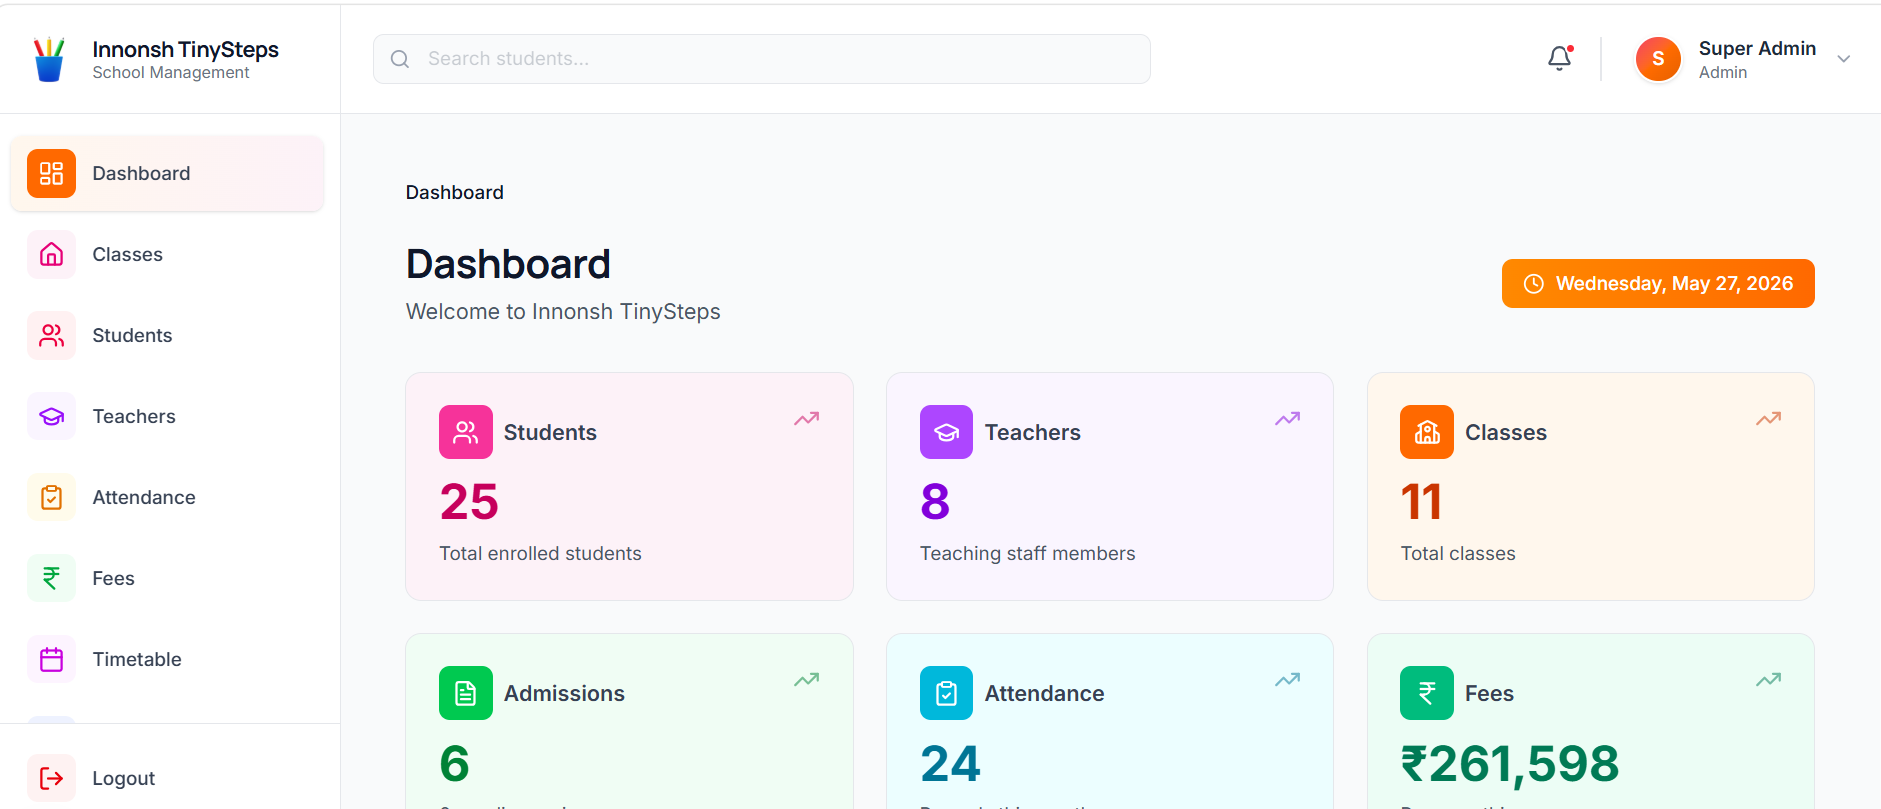
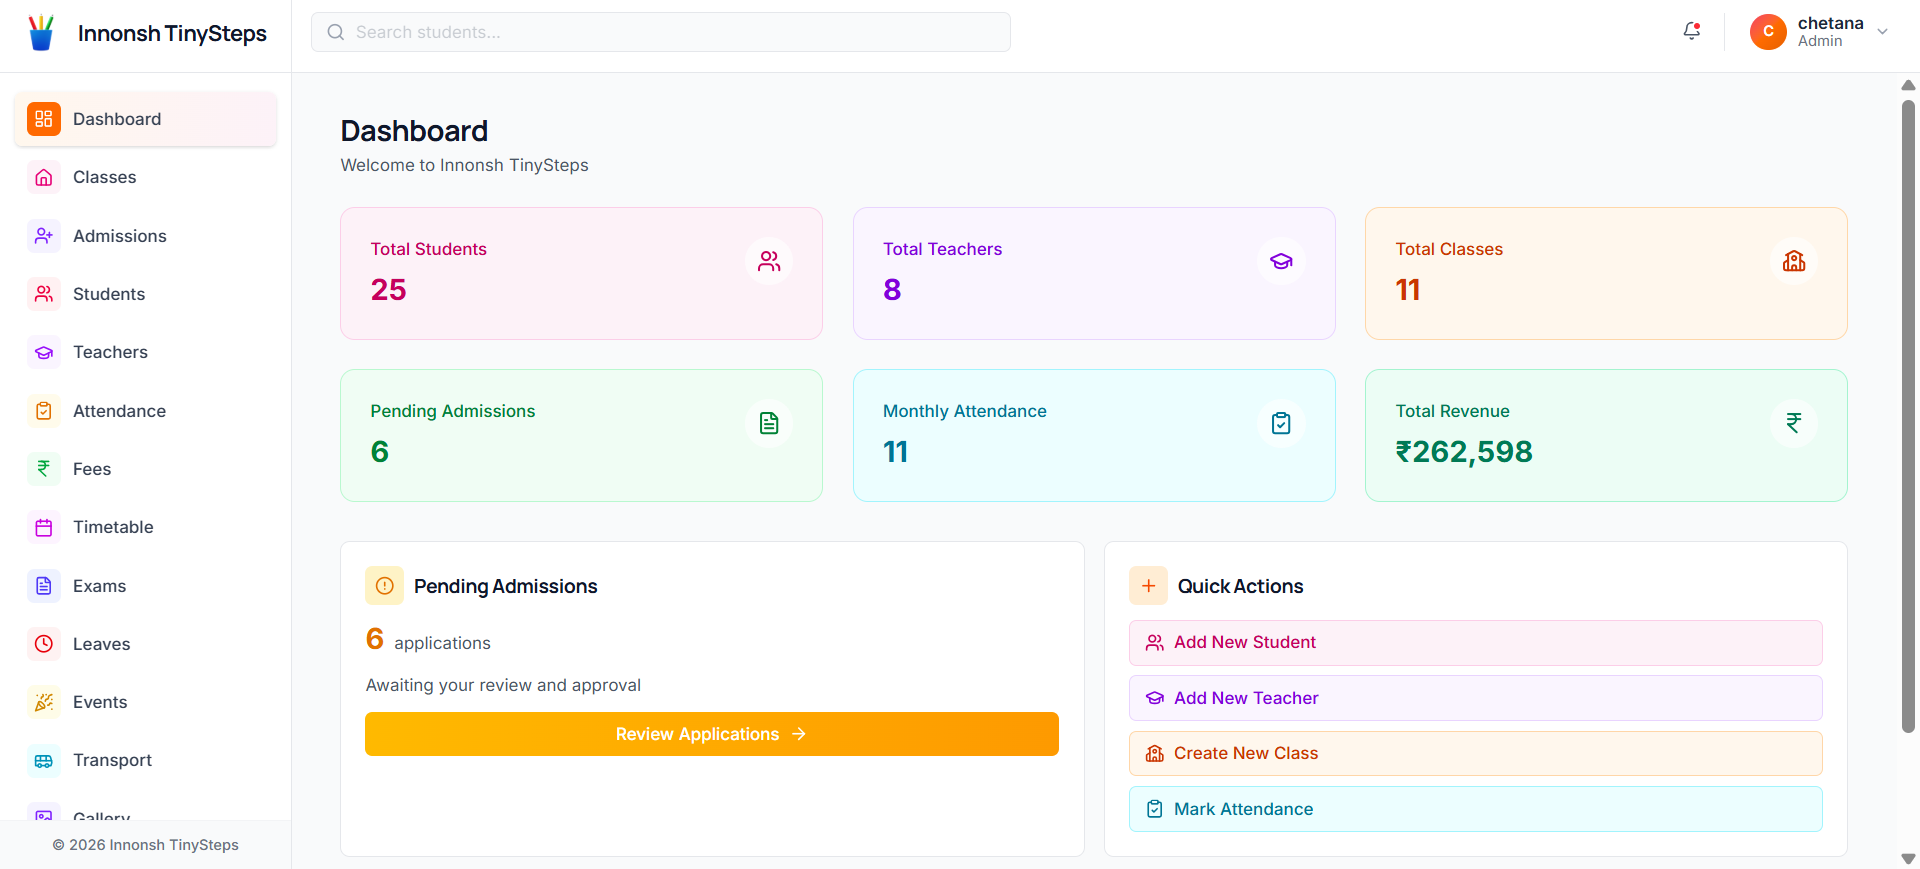
replace dashboard image

diff --git a/app/globals.css b/app/globals.css
@@ -31,26 +31,42 @@ body {
   line-height: 1.6;
   -webkit-font-smoothing: antialiased;
   -moz-osx-font-smoothing: grayscale;
-  color: #334155; /* slate-700 */
+  color: #334155;
+  /* slate-700 */
 }
 
-h1, h2, h3, h4, h5, h6, 
-.card-title, .section-header, .page-title {
+h1,
+h2,
+h3,
+h4,
+h5,
+h6,
+.card-title,
+.section-header,
+.page-title {
   font-family: var(--font-heading-var), sans-serif;
   letter-spacing: -0.02em;
   line-height: 1.25;
   font-weight: 700;
-  color: #0f172a; /* slate-900 */
+  color: #0f172a;
+  /* slate-900 */
 }
 
 /* UI Elements & Controls */
-input, select, textarea, button, label, table, .sidebar-link {
+input,
+select,
+textarea,
+button,
+label,
+table,
+.sidebar-link {
   font-family: var(--font-body-var), sans-serif;
 }
 
 label {
   font-weight: 500;
-  color: #475569; /* slate-600 */
+  color: #475569;
+  /* slate-600 */
 }
 
 input::placeholder {
@@ -58,10 +74,6 @@ input::placeholder {
   opacity: 0.5;
 }
 
-.custom-scrollbar::-webkit-scrollbar-thumb {
-  background: #e2e8f0; /* slate-200 */
-  border-radius: 10px;
-}
 
 /* Hide native scrollbars while preserving scroll functionality */
 .no-scrollbar {
@@ -96,22 +108,29 @@ input::placeholder {
 
 html {
   scroll-behavior: smooth;
-  font-size: 90%; /* Scales down the entire UI to 90% by default */
+  font-size: 90%;
+  /* Scales down the entire UI to 90% by default */
 }
 
 /* Modal Animations */
 @keyframes modal-backdrop-in {
-  from { opacity: 0; }
-  to { opacity: 1; }
+  from {
+    opacity: 0;
+  }
+
+  to {
+    opacity: 1;
+  }
 }
 
 @keyframes modal-content-in {
-  from { 
-    opacity: 0; 
+  from {
+    opacity: 0;
     transform: scale(0.95);
   }
-  to { 
-    opacity: 1; 
+
+  to {
+    opacity: 1;
     transform: scale(1);
   }
 }